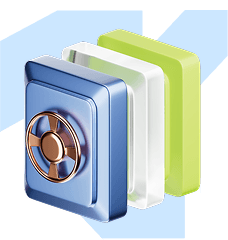
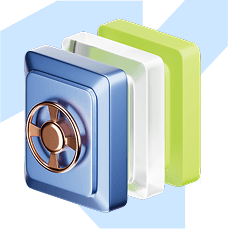
fix: srp lock image update and remove follow x (#34619)
<!--
Please submit this PR as a draft initially.
Do not mark it as "Ready for review" until the template has been
completely filled out, and PR status checks have passed at least once.
-->

## **Description**
Fix Secure your wallet image and Removed `follow on X`

<!--
Write a short description of the changes included in this pull request,
also include relevant motivation and context. Have in mind the following
questions:
1. What is the reason for the change?
2. What is the improvement/solution?
-->

[![Open in GitHub
Codespaces](https://github.com/codespaces/badge.svg)](https://codespaces.new/MetaMask/metamask-extension/pull/34619?quickstart=1)

## **Changelog**

<!--
If this PR is not End-User-Facing and should not show up in the
CHANGELOG, you can choose to either:
1. Write `CHANGELOG entry: null`
2. Label with `no-changelog`

If this PR is End-User-Facing, please write a short User-Facing
description in the past tense like:
`CHANGELOG entry: Added a new tab for users to see their NFTs`
`CHANGELOG entry: Fixed a bug that was causing some NFTs to flicker`

(This helps the Release Engineer do their job more quickly and
accurately)
-->

CHANGELOG entry: Fix Secure your wallet image and Removed `follow on X`

## **Related issues**

Fixes:

## **Manual testing steps**

1. Create new wallet with SRP
2. Continue upto `Secure your wallet` page and check image
3. Click get started and confirm SRP and continue upto `Your wallet is
ready!` page
[…]

diff --git a/ui/pages/onboarding-flow/onboarding-flow.js b/ui/pages/onboarding-flow/onboarding-flow.js
@@ -44,24 +44,11 @@ import {
   getShowTermsOfUse,
 } from '../../selectors';
 import { MetaMetricsContext } from '../../contexts/metametrics';
-import { useI18nContext } from '../../hooks/useI18nContext';
-import {
-  MetaMetricsEventCategory,
-  MetaMetricsEventName,
-} from '../../../shared/constants/metametrics';
 ///: BEGIN:ONLY_INCLUDE_IF(build-flask)
 import ExperimentalArea from '../../components/app/flask/experimental-area';
 ///: END:ONLY_INCLUDE_IF
 import { submitRequestToBackgroundAndCatch } from '../../components/app/toast-master/utils';
-import { getHDEntropyIndex } from '../../selectors/selectors';
-import {
-  Box,
-  Button,
-  ButtonVariant,
-  Icon,
-  IconName,
-  IconSize,
-} from '../../components/component-library';
+import { Box } from '../../components/component-library';
 import {
   AlignItems,
   BackgroundColor,
@@ -72,7 +59,6 @@ import {
   Display,
   FlexDirection,
   JustifyContent,
-  TextVariant,
 } from '../../helpers/constants/design-system';
 // eslint-disable-next-line import/no-restricted-paths
 import { getEnvironmentType } from '../../../app/scripts/lib/util';
@@ -99,16 +85,12 @@ import AccountNotFound from './account-not-found/account-not-found';
 import RevealRecoveryPhrase from './recovery-phrase/reveal-recovery-phrase';
 import OnboardingError from './onboarding-error/onboarding-error';
 
-const TWITTER_URL = 'https://twitter.com/MetaMask';
-
 export default function OnboardingFlow() {
   const [secretRecoveryPhrase, setSecretRecoveryPhrase] = useState('');
   const [isLoading, setIsLoading] = useState(false);
   const dispatch = useDispatch();
   const { pathname, search } = useLocation();
   const history = useHistory();
-  const t = useI18nContext();
-  const hdEntropyIndex = useSelector(getHDEntropyIndex);
   const completedOnboarding = useSelector(getCompletedOnboarding);
   const nextRoute = useSelector(getFirstTimeFlowTypeRouteAfterUnlock);
   const isFromReminder = new URLSearchParams(search).get('isFromReminder');
@@ -405,41 +387,6 @@ export default function OnboardingFlow() {
           <Route exact path="*" component={OnboardingFlowSwitch} />
         </Switch>
       </Box>
-      {pathname === ONBOARDING_COMPLETION_ROUTE && (
-        <Button
-          variant={ButtonVariant.Link}
-          href={TWITTER_URL}
-          marginInline="auto"
-          marginTop={isPopup ? 0 : 4}
-          marginBottom={isPopup ? 4 : 0}
-          target="_blank"
-          rel="noopener noreferrer"
-          textProps={{
-            variant: TextVariant.bodyLgMedium,
-          }}
-          onClick={() => {
-            trackEvent({
-              category: MetaMetricsEventCategory.Onboarding,
-              event: MetaMetricsEventName.OnboardingTwitterClick,
-              properties: {
-                text: t('followUsOnX', ['X']),
-                location: MetaMetricsEventName.WalletCreated,
-                url: TWITTER_URL,
-                hd_entropy_index: hdEntropyIndex,
-              },
-            });
-          }}
-        >
-          {t('followUsOnX', [
-            <Icon
-              key="x-icon"
-              className="onboarding-flow__x-button__icon"
-              name={IconName.X}
-              size={IconSize.Lg}
-            />,
-          ])}
-        </Button>
-      )}
       {isLoading && <LoadingScreen />}
     </Box>
   );
